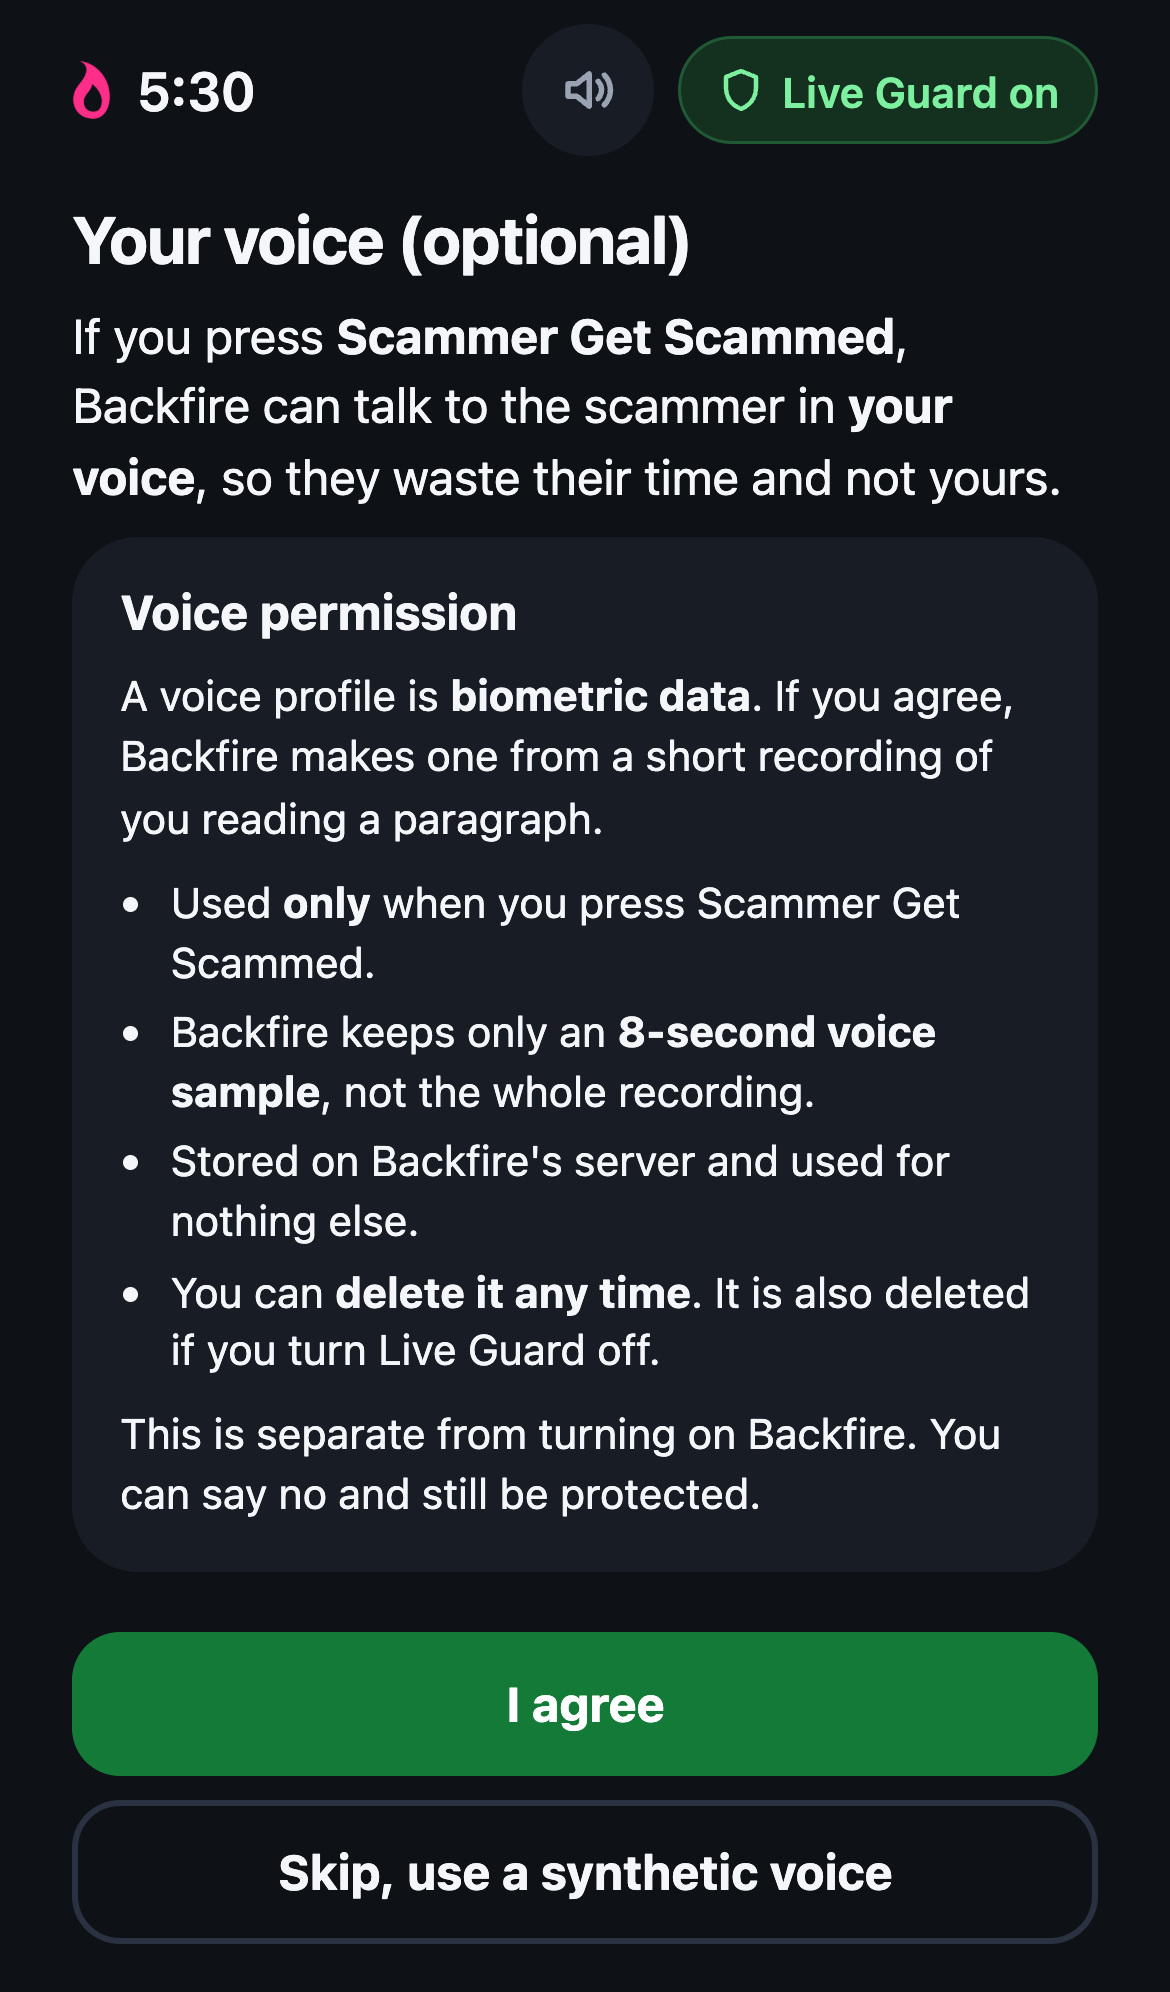
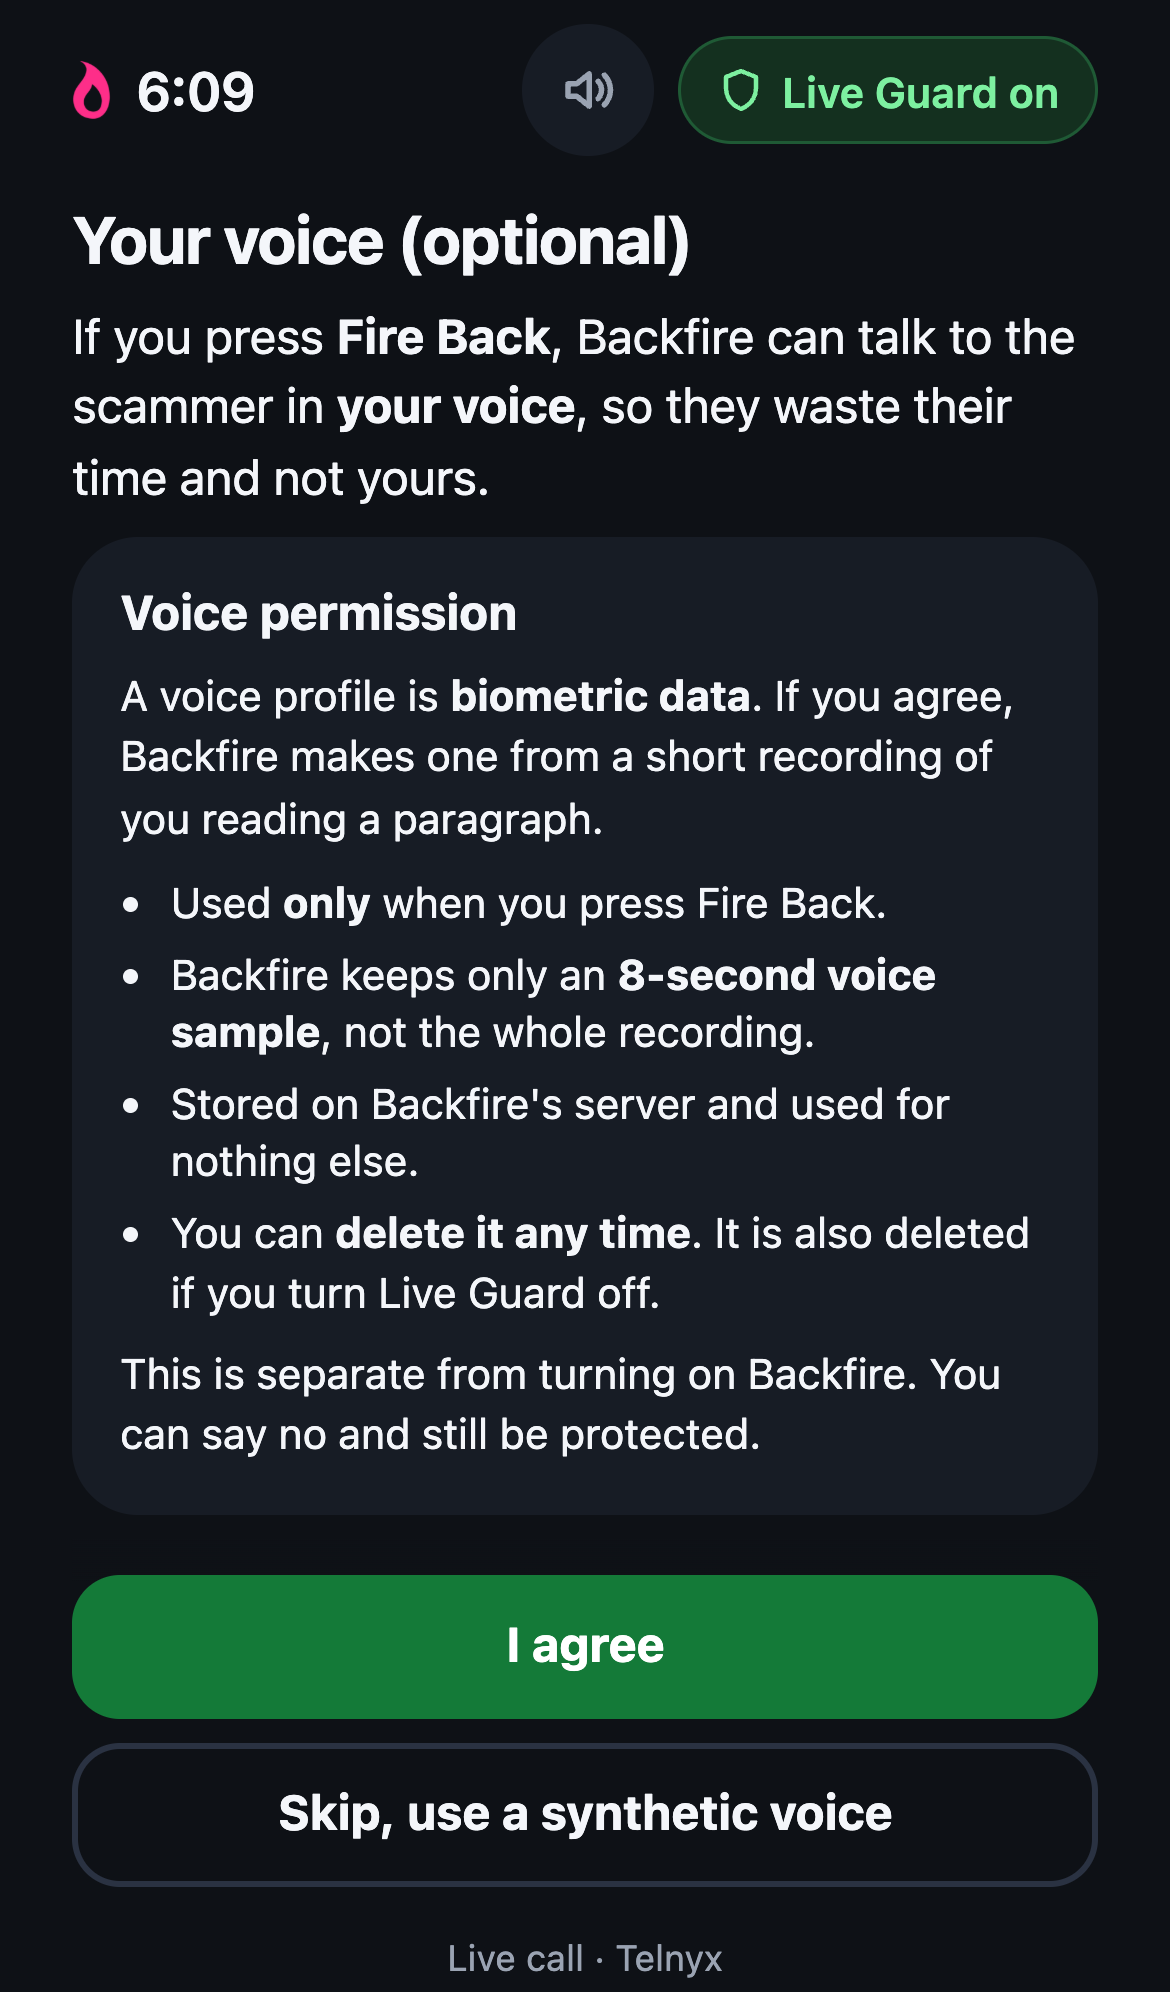
P1 rename: 'Scammer Get Scammed' -> 'Fire Back' everywhere user-visible (button, consent copy, voice text, notification map, blocked reason, docs); enum scammer_get_scammed and the subline unchanged; affected screenshots regenerated; e2e label updated

diff --git a/web/customer/ui.js b/web/customer/ui.js
@@ -56,7 +56,7 @@
     $("callsCount").textContent = state.calls; $("statCalls").textContent = state.calls; $("statBlocked").textContent = state.blocked.length;
     $("guardState").textContent = state.guardOn ? "On. Backfire is watching the caller's side of calls from numbers it doesn't know." + (state.voiceId ? " Turning it off also deletes your voice." : "") : "Off. Calls are not being checked.";
     $("guardToggle").textContent = state.guardOn ? "Turn Live Guard off" : "Turn Live Guard on";
-    $("voiceState").textContent = state.voiceId ? "Set up. Backfire keeps only a short voice sample, used only if you press Scammer Get Scammed." + (HUB ? "" : " (Simulated)") : "No voice profile.";
+    $("voiceState").textContent = state.voiceId ? "Set up. Backfire keeps only a short voice sample, used only if you press Fire Back." + (HUB ? "" : " (Simulated)") : "No voice profile.";
     $("voiceDelete").hidden = !state.voiceId; $("voiceSetup").hidden = !!state.voiceId;
     applyGuard();
   }
@@ -75,7 +75,7 @@
   BF.onEvent = ev => {
     const d = ev.data || {};
     if (ev.type === "blocklist.updated" && d.scope === "her" && !state.blocked.some(b => b.undo_token === d.undo_token))
-      state.blocked.push({ number: d.number, reason: "Caught after Scammer Get Scammed", undo_token: d.undo_token });
+      state.blocked.push({ number: d.number, reason: "Caught after Fire Back", undo_token: d.undo_token });
     if (ev.type === "call.ended") state.calls++;
     if (ev.type === "blocklist.updated" || ev.type === "call.ended") setTimeout(renderProtection, 0);   // live update while she is looking at the log
     if (ev.type === "voice.enrolled" && d.voice_id) { state.voiceId = d.voice_id; store.set("voice", d.voice_id); }
@@ -104,7 +104,7 @@
   $("s1on").onclick = () => { store.set("on", "1"); state.guardOn = true; store.set("done", "1"); setup(2); };
   $("s2skip").onclick = () => toDns("Backfire is on. Scammers will hear a synthetic voice. You can set up your voice later in Protection.");
   $("s2agree").onclick = () => { const p = newParagraph(); if (!CONVO) $("paragraph").textContent = p; resetRec(); setup("rec"); };
-  $("recSkip").onclick = () => { if (lowQ) { lowQ = false; toDns("Your voice is set up. Backfire is on. It keeps only a short voice sample, used only if you press Scammer Get Scammed. You can delete it any time in Protection."); return; } stopMeter(); if (rec) { discard = true; rec.stop(); } toDns("Backfire is on. Scammers will hear a synthetic voice. You can set up your voice later in Protection."); };
+  $("recSkip").onclick = () => { if (lowQ) { lowQ = false; toDns("Your voice is set up. Backfire is on. It keeps only a short voice sample, used only if you press Fire Back. You can delete it any time in Protection."); return; } stopMeter(); if (rec) { discard = true; rec.stop(); } toDns("Backfire is on. Scammers will hear a synthetic voice. You can set up your voice later in Protection."); };
   $("s3done").onclick = () => { view("callView"); applyGuard(); if (BF.pendingStart) { const f = BF.pendingStart; BF.pendingStart = null; f(); } };
   $("voiceSetup").onclick = () => setup(2);
   $("dnsOpen").onclick = () => { state.fromSettings = true; setup("dns"); };
@@ -185,7 +185,7 @@
         $("recStatus").textContent = "Saved, but the recording sounds like phone quality" + (why ? " (" + why + ")" : "") + (above4k != null ? ", " + above4k + "% of the sound above 4 kHz" : "") + ". For a closer match, record again in a quiet room.";
         $("recSkip").hidden = false; $("recSkip").textContent = "Keep this voice and continue"; return;
       }
-      toDns("Your voice is set up" + (HUB ? "" : " (simulated)") + (quality === "ok" ? " (recording quality: good)" : "") + ". Backfire is on. It keeps only a short voice sample, used only if you press Scammer Get Scammed. You can delete it any time in Protection.");
+      toDns("Your voice is set up" + (HUB ? "" : " (simulated)") + (quality === "ok" ? " (recording quality: good)" : "") + ". Backfire is on. It keeps only a short voice sample, used only if you press Fire Back. You can delete it any time in Protection.");
     } catch (e) {
       console.log("[backfire] enroll failed", String(e)); done();
       $("recStatus").textContent = /\b401\b/.test(String(e)) ? "Please pair this phone first, then try again." : "Your voice wasn't saved. Press Save to try again, or skip to use a synthetic voice.";   // handled errors stay out of Maria's face; BF.onUnauthorized shows the pair screen itself

diff --git a/web/customer/index.html b/web/customer/index.html
@@ -60,7 +60,7 @@ if (!Element.prototype.replaceChildren) Element.prototype.replaceChildren = func
       <p id="alertTag" class="alert-tag" hidden></p>
       <ul id="chips" class="chips"></ul>
       <div class="alert-actions">
-        <button class="big gets" id="btnGets"><span class="b-main">Scammer Get Scammed</span><span class="b-sub">Backfire takes the call in your voice</span></button>
+        <button class="big gets" id="btnGets"><span class="b-main">Fire Back</span><span class="b-sub">Backfire takes the call in your voice</span></button>
         <div class="pair">
           <button class="big outline" id="btnContinue">Continue</button>
           <button class="big outline danger" id="btnHang">Hang up</button>
@@ -154,11 +154,11 @@ if (!Element.prototype.replaceChildren) Element.prototype.replaceChildren = func
     <div id="step2" class="step" hidden>
       <div class="step-body">
         <h1>Your voice (optional)</h1>
-        <p class="body">If you press <b>Scammer Get Scammed</b>, Backfire can talk to the scammer in <b>your voice</b>, so they waste their time and not yours.</p>
+        <p class="body">If you press <b>Fire Back</b>, Backfire can talk to the scammer in <b>your voice</b>, so they waste their time and not yours.</p>
         <div class="card"><h2>Voice permission</h2>
           <p class="body small">A voice profile is <b>biometric data</b>. If you agree, Backfire makes one from a short recording of you reading a paragraph.</p>
           <ul class="plainlist small">
-            <li>Used <b>only</b> when you press Scammer Get Scammed.</li>
+            <li>Used <b>only</b> when you press Fire Back.</li>
             <li>Backfire keeps only an <b>8-second voice sample</b>, not the whole recording.</li>
             <li>Stored on Backfire's server and used for nothing else.</li>
             <li>You can <b>delete it any time</b>. It is also deleted if you turn Live Guard off.</li></ul>

diff --git a/web/customer/app.js b/web/customer/app.js
@@ -132,7 +132,7 @@
       case "user.action": {                               // first tap wins on the hub; show an action taken on ANOTHER phone
         const mine = (window.__userActions || []).some(m => m.call_id === ev.call_id && m.data && m.data.action === d.action && Date.now() - Date.parse(m.ts) < 4000);
         const who = d.by || d.device || d.client || "another phone", n = $("actedMsg");
-        if (!mine && n && d.action) { n.textContent = ({ continue: "Continue", scammer_get_scammed: "Scammer Get Scammed", hang_up: "Hang up" }[d.action] || d.action) + " was chosen on " + (/^another/.test(who) ? who : "the " + who) + "."; n.hidden = false; }
+        if (!mine && n && d.action) { n.textContent = ({ continue: "Continue", scammer_get_scammed: "Fire Back", hang_up: "Hang up" }[d.action] || d.action) + " was chosen on " + (/^another/.test(who) ? who : "the " + who) + "."; n.hidden = false; }
         break; }
       case "handoff.started": clearTimeout(st.handT); showHandoff(); break;
       case "handoff.failed": failHandoff(d.reason); break;   // F3: the hub could not hand the call to Backfire: she is still on the call

diff --git a/web/customer/tests/e2e_demo.py b/web/customer/tests/e2e_demo.py
@@ -139,11 +139,11 @@ def main():
             http("POST", "/events", {"type": "alert.fired", "call_id": call.sid, "data": {"level": "first", "why_chips": ["Asks for gift cards", "Claims to be IRS", "Secrecy"]}})
             check("4", "alert box shown", bool(wait_for(lambda: pg.locator("#alertBox").is_visible())))
             check("4", "3 why-chips", pg.locator("#chips li").count() == 3, str(pg.locator("#chips li").count()))
-            check("4", "3 big buttons (Continue / Scammer Get Scammed / Hang up)", all(pg.locator(s).is_visible() for s in ("#btnContinue", "#btnGets", "#btnHang")))
+            check("4", "3 big buttons (Continue / Fire Back / Hang up)", all(pg.locator(s).is_visible() for s in ("#btnContinue", "#btnGets", "#btnHang")))
             check("4", "two beeps fired (oscillators created)", wait_for(lambda: pg.evaluate("window.__osc") >= 2) is not None and pg.evaluate("window.__osc") >= 2, str(pg.evaluate("window.__osc")))
             check("4", "badge = Scam Likely", "Scam Likely" in pg.inner_text("#guard"), pg.inner_text("#guard"))
             shot("04-alert")
-            # 5. Scammer Get Scammed
+            # 5. Fire Back
             pg.click("#btnGets")
             ua = wait_for(lambda: has("user.action", action="scammer_get_scammed"))
             check("5", "user.action scammer_get_scammed reached the hub (WS /events)", bool(ua))

diff --git a/docs/app-screens/README.md b/docs/app-screens/README.md
@@ -24,8 +24,8 @@ Files: `index.html` markup, `style.css` look, `app.js` call screen + events, `ui
 | 14 | Active call, talk mode, mic live (green dot) | MARIA_LEG=talk (or ?talk=1) | `talk.js`, `index.html #talkBox`, `style.css .talk/.mic/.dot` |
 | 15 | Talk mode, muted | tap the mic button | `talk.js render()` |
 | 16 | "Tap for sound" badge (audio blocked by the browser) | AudioContext suspended / autoplay blocked | `app.js unlockAudio`, `sim.js` |
-| 17 | Alert: why chips + Continue / Scammer Get Scammed / Hang up | alert.fired (two beeps) | `index.html #alertBox`, `app.js`, `style.css .alert/.chips` |
-| 18 | Handed off: "We've got it" + "Listening to Backfire's decoy" | Scammer Get Scammed / handoff.started | `app.js showHandoff`, `sim.js` |
+| 17 | Alert: why chips + Continue / Fire Back / Hang up | alert.fired (two beeps) | `index.html #alertBox`, `app.js`, `style.css .alert/.chips` |
+| 18 | Handed off: "We've got it" + "Listening to Backfire's decoy" | Fire Back / handoff.started | `app.js showHandoff`, `sim.js` |
 | 19 | Restored: "You're back on the call" | handoff.restored | `app.js` |
 | 20 | Call ended | call.ended / hang up | `index.html #ended`, `app.js endCall` |
 | 21 | Protection tab: Live Guard, blocked numbers + Undo, calls handled, what we keep, voice profile (Delete my voice) | Protection tab | `index.html #protView`, `ui.js renderProtection` |

diff --git a/web/customer/tests/README.md b/web/customer/tests/README.md
@@ -4,7 +4,7 @@
 
 Starts the real hub via `scripts/run_hub` (NO_TUNNEL=1 SIM_MODE=1 VOIP_OPEN_TOKEN=1, port 8011, throwaway DB), opens Maria's app at 390x844
 in headless Chromium, and plays the demo: unlisted number rings -> Answer -> fake P2 `risk.update`+`alert.fired` (beeps counted via an
-AudioContext hook, chips, 3 buttons) -> Scammer Get Scammed -> `user.action`, `handoff.started`, echo decoy -> hang up -> `blocklist.updated`
+AudioContext hook, chips, 3 buttons) -> Fire Back -> `user.action`, `handoff.started`, echo decoy -> hang up -> `blocklist.updated`
 -> same number again is `BLOCKED_BACKFIRE` and the app never rings. Screenshots go to a temp dir (or $E2E_SHOTS); the hub gets its own LOGDIR and HUB_NO_PIN_FILE=1 so it never touches a live hub's logs or PIN. Exit 0 only if all pass.
 Each step prints PASS / FAIL / GAP (GAP = a known missing piece in another lane, with the owner named).
 
